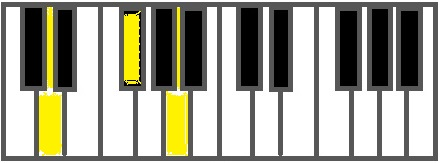
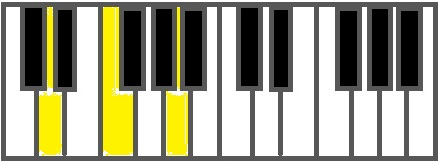
Added double bass, and fixed chords in roman numerals

Changed region(s): [[0.2068, 0.0307, 0.325, 0.9816]]

diff --git a/Midi/MidiApp.js b/Midi/MidiApp.js
@@ -11,10 +11,10 @@ var correctNoteSequence = [1, 2, 3, 4, 5, 6, 7, 8, 9]; // Amazing Grace in F
 var activeNoteSequence = [];
 
 // Lock 2 variables
-var correctChord = [11, 4, 5, 7]; // C7 chord starting on middle C
+var correctChord = [11, 4, 5, 7, 15]; // C7 chord starting on middle C
 var activeChord = [];
 var currentChordName = "Wait for the first chord";
-
+var bassMatched = 0;
 if (navigator.requestMIDIAccess) {
 	console.log('This browser supports WebMIDI!');
 
@@ -171,8 +171,15 @@ function noteOnListener(note, velocity) {
 
 	case 2:
 		// add the note to the active chord array
-		activeChord.push(arrangeNote(note));
-
+		//alert((arrangeNote(note)+"" +correctChord[0]));
+		if (activeChord.includes(arrangeNote(note)) == false) {
+			activeChord.push(arrangeNote(note));
+		} else if ((arrangeNote(note) == correctChord[0]) && (bassMatched > 0) && (bassMatched < 3)) {
+			activeChord.push(bassMatched+12);
+			//alert (bassMatched+12); //spot1
+			bassMatched++
+		}
+		//alert(activeChord.length);
 		// show the number of active notes
 		for (var i = 0; i < activeChord.length; i++) {
 			document.querySelector('.step2 .note:nth-child(' + (i + 1) + ')').classList.add('on');
@@ -331,12 +338,17 @@ function getNoteNameGeneral(genNoteNum) {
 }
 
 function noteOffListener(note) {
-
+//alert (note);
 	switch (currentStep) {
 	case 2:
 		// Remove the note value from the active chord array
+		//alert(activeChord.length);
+		//alert (arrangeNote(note)==correctChord[0]);
 		activeChord.splice(activeChord.indexOf(note), 1);
-
+		if (arrangeNote(note)==correctChord[0]&&bassMatched>1){
+			bassMatched--;
+		}
+		//spot2
 		// Hide the last note shown
 		document.querySelector('.step2 .note:nth-child(' + (activeChord.length + 1) + ')').classList.remove('on');
 		break;
@@ -478,6 +490,11 @@ function setupChord(rootNote) {
 	var Chordlist = [];
 
 	// alert(document.getElementById("ez5").selected);
+	if (document.getElementById("doubleBass").selected) { //checking to see if ________ is checked
+		bassMatched = 1;
+	} else {
+		bassMatched = 0;
+	}
 	if (document.getElementById("jln").selected) { //checking to see if ________ is checked
 		Chordlist.push("justNotes");
 	}
@@ -569,17 +586,16 @@ function setupChord(rootNote) {
 			//alert(rootNote);
 			currentChordName = getNoteNameGeneral(rootNote);
 		}
-		
+
 		currentChordName = currentChordName + "m";
 		setupEasyMinors(rootNote);
 		break;
 	case "romanC":
 		//rootNote = fixNote(rootNote);
-		if (rootNote==10){
-			rootNote=5;
+		if (rootNote == 10) {
+			rootNote = 5;
 			currentChordName = getNoteNameGeneral(rootNote);
-		}
-		else if (rootNote == 1 || rootNote == 3 || rootNote == 6 || rootNote == 8 || rootNote == 11) {
+		} else if (rootNote == 1 || rootNote == 3 || rootNote == 6 || rootNote == 8 || rootNote == 11) {
 			rootNote++;
 			rootNote = fixNote(rootNote);
 
@@ -591,17 +607,16 @@ function setupChord(rootNote) {
 		break;
 	case "romanA":
 		//rootNote = fixNote(rootNote);
-		if (rootNote==10){
-			rootNote=5;
+		if (rootNote == 10) {
+			rootNote = 5;
 			currentChordName = getNoteNameGeneral(rootNote);
-		}
-		else if (rootNote == 1 || rootNote == 3 || rootNote == 6 || rootNote == 11 || rootNote == 8) {
+		} else if (rootNote == 1 || rootNote == 3 || rootNote == 6 || rootNote == 11 || rootNote == 8) {
 			rootNote++;
 			rootNote = fixNote(rootNote);
 			//alert(rootNote);
 			currentChordName = getNoteNameGeneral(rootNote);
 		}
-		
+
 		//alert(rootNote);
 		setupMinRoman(rootNote);
 		//currentChordName = currentChordName + "m";
@@ -654,6 +669,12 @@ function setupChord(rootNote) {
 		setupAddNinth(rootNote);
 		break;
 	}
+
+	if (bassMatched > 0) {
+		//	alert("tested");
+		correctChord.push(13);
+		correctChord.push(14);
+	}
 }
 
 function setupMajRoman(rN) {
@@ -705,7 +726,7 @@ function setupMajRoman(rN) {
 		correctChord = [rN, third, fifth];
 		break;
 	}
-	alert (currentChordName);
+	//alert (currentChordName);
 }
 function setupMinRoman(rN) {
 	switch (rN) {

diff --git a/Midi/ChordSense.html b/Midi/ChordSense.html
@@ -95,6 +95,7 @@
 	<option value="addNinth" id = "add9">Add Ninth</option>
 	<option value="romC" id = "romanc">Roman Numerals in C</option>
 	<option value="romA" id = "romana">Roman Numerals in A</option>
+		<option value="dubB" id = "doubleBass">Look for two additional root notes in the Bass</option>
     </select>
 </p></div>
 <script>
@@ -140,6 +141,8 @@
 
 		<div class="screen step2">
 			<div class="lock-input">
+				<div class="note"><svg><use xlink:href="#note"></use></svg></div>
+				<div class="note"><svg><use xlink:href="#note"></use></svg></div>
 				<div class="note"><svg><use xlink:href="#note"></use></svg></div>
 				<div class="note"><svg><use xlink:href="#note"></use></svg></div>
 				<div class="note"><svg><use xlink:href="#note"></use></svg></div>
